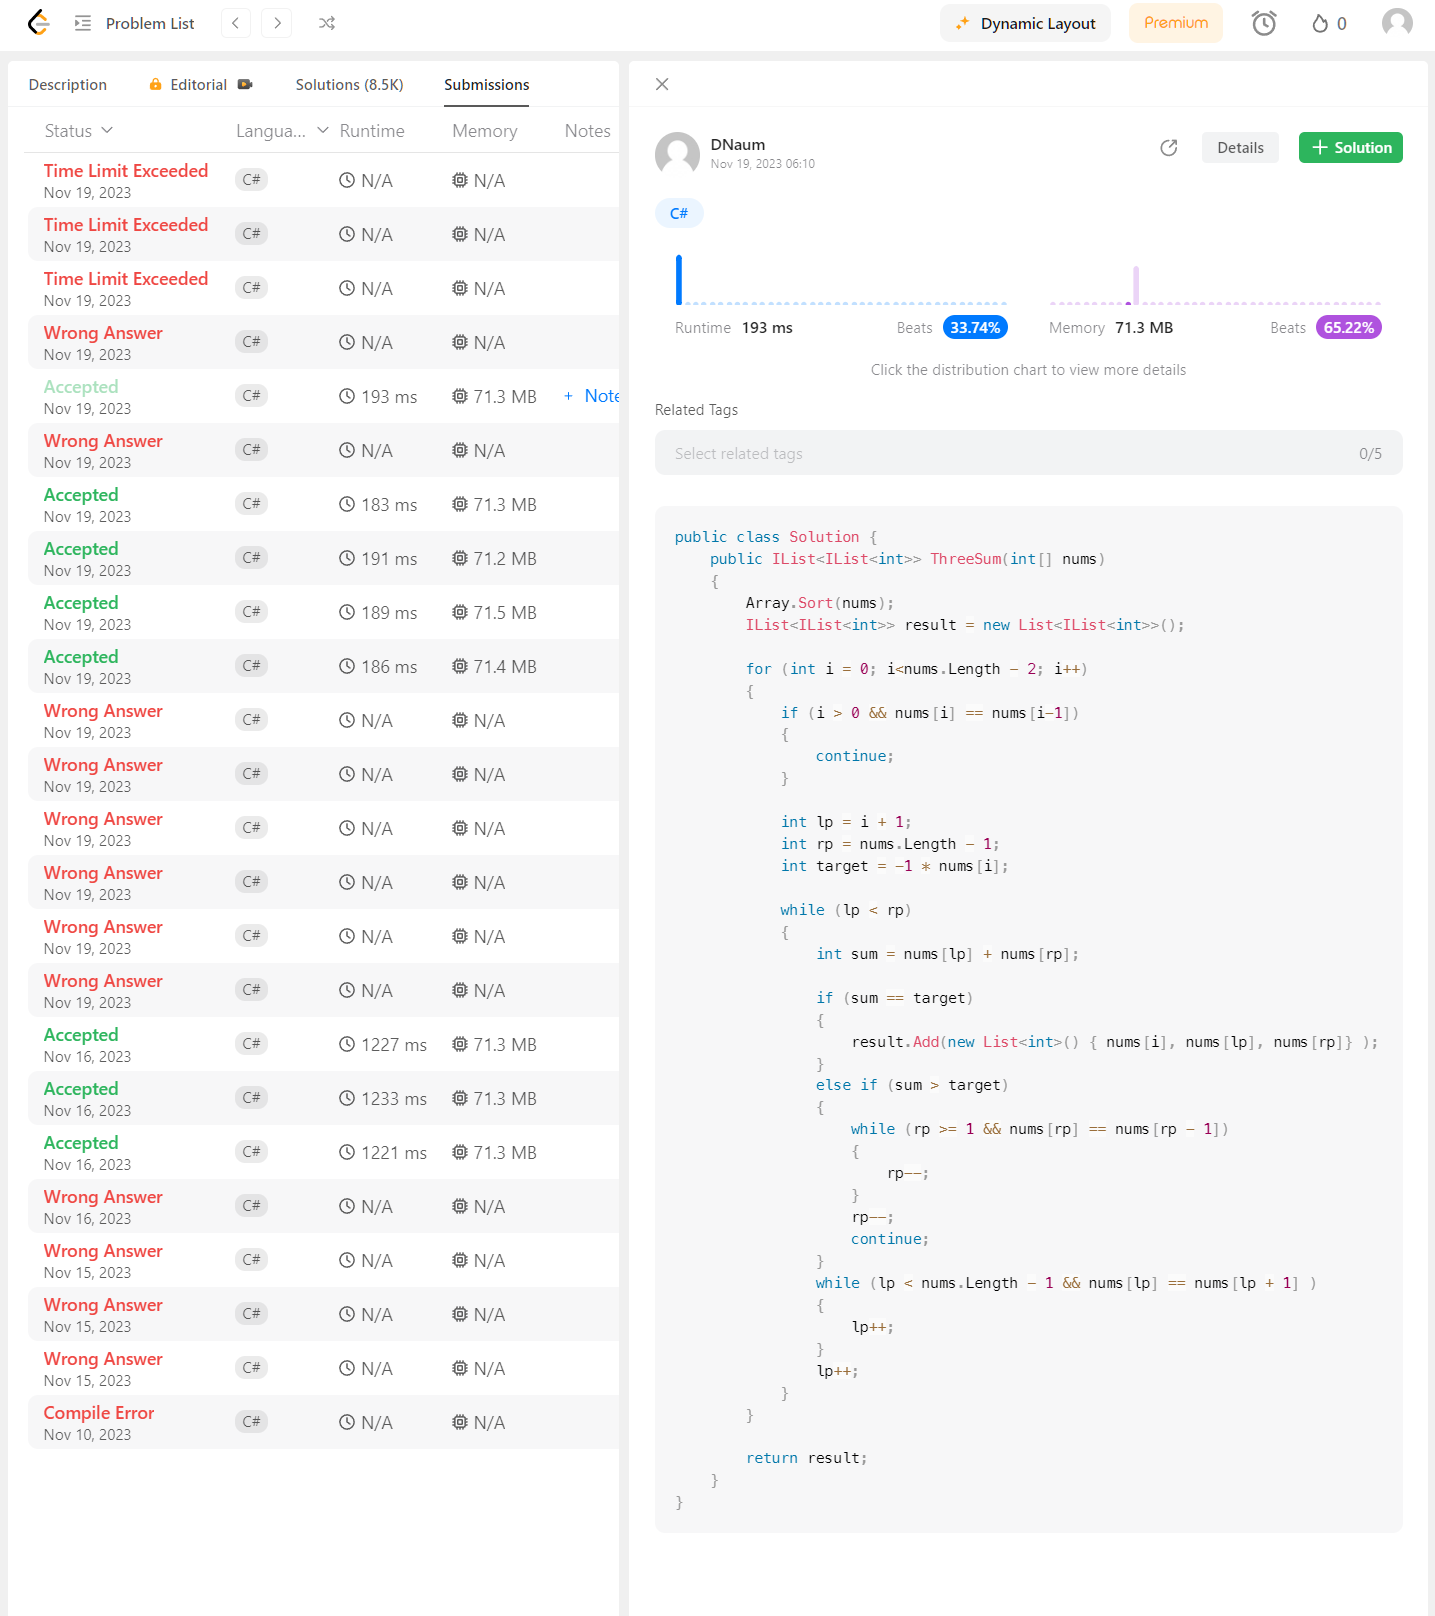
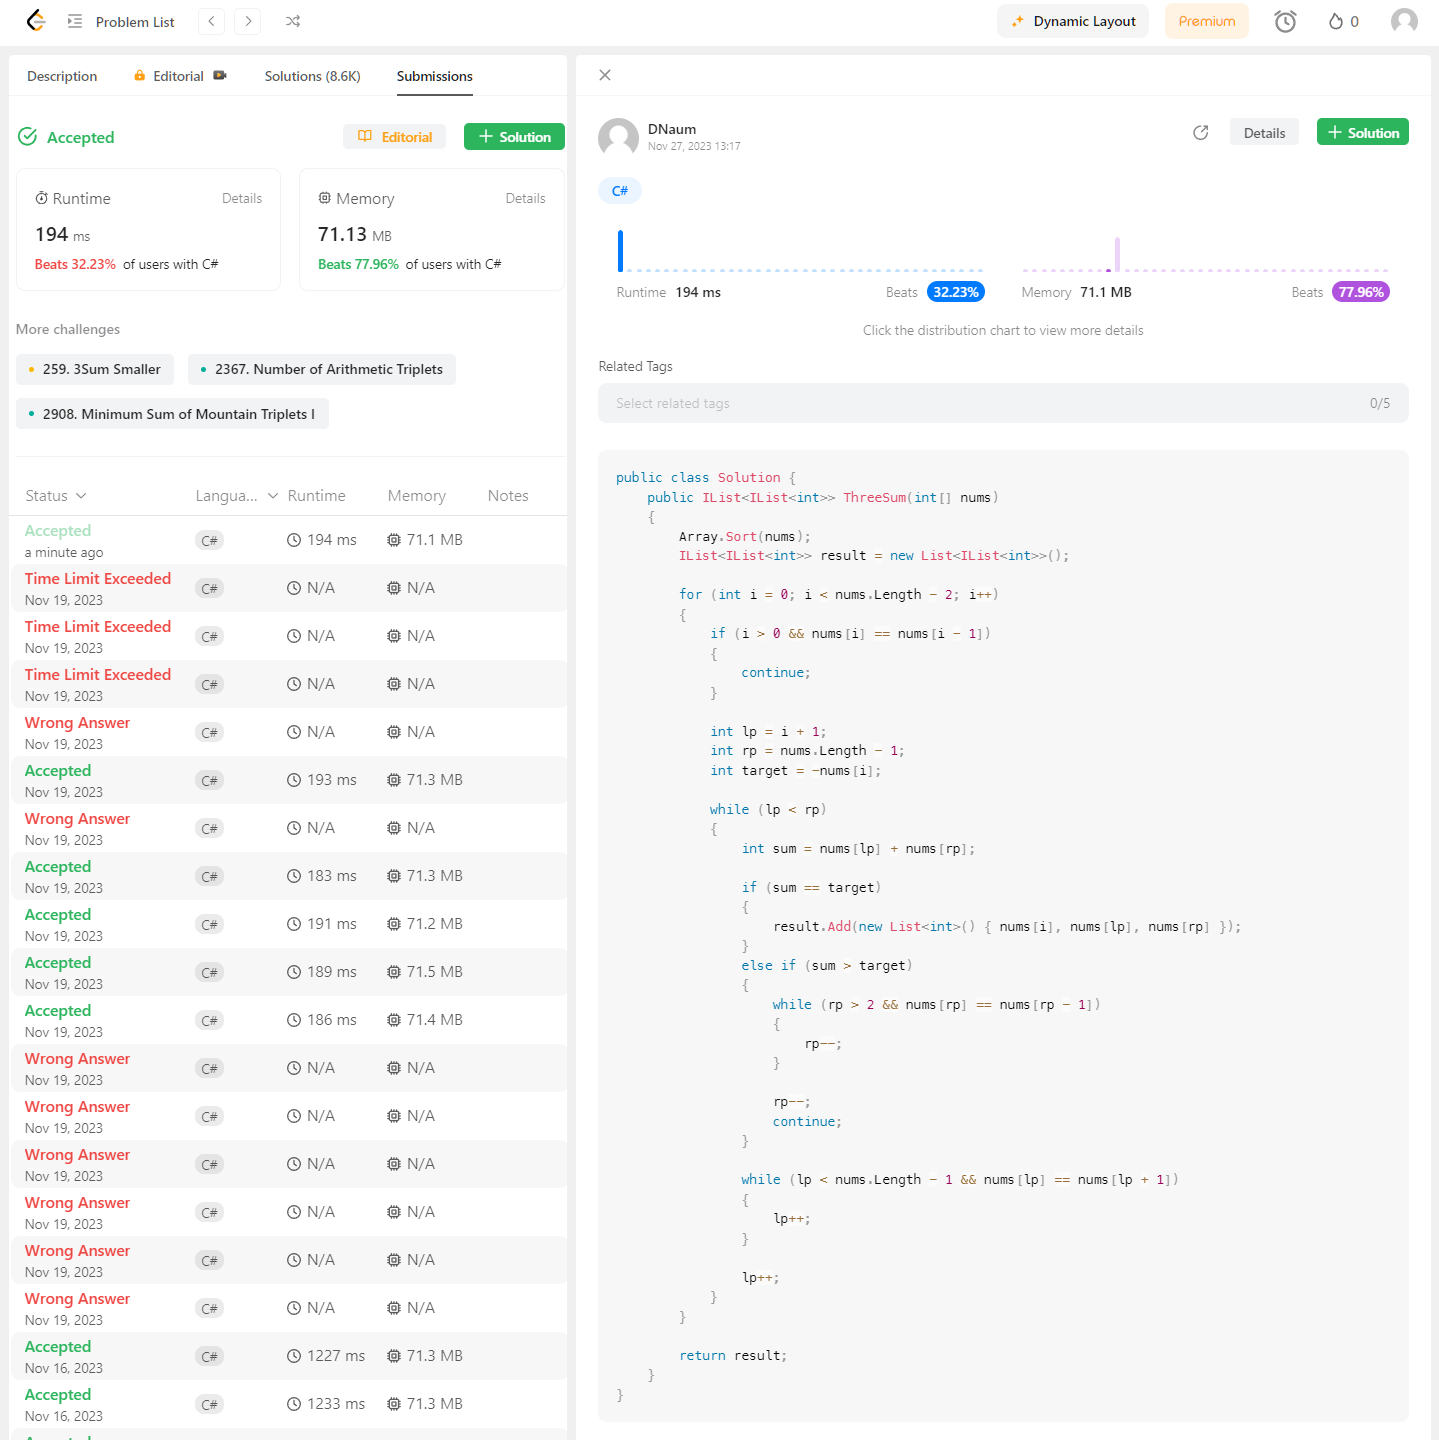
Minor formatting changes. LC result screenshot updated.

diff --git a/ScnSoft-Education/LeetCodeTraining/ThreeSum/ThreeSumSolution.cs b/ScnSoft-Education/LeetCodeTraining/ThreeSum/ThreeSumSolution.cs
@@ -17,7 +17,7 @@
 
                 int lp = i + 1;
                 int rp = nums.Length - 1;
-                int target = -1 * nums[i];
+                int target = -nums[i];
 
                 while (lp < rp)
                 {
@@ -29,17 +29,20 @@
                     }
                     else if (sum > target)
                     {
-                        while (rp >= 1 && nums[rp] == nums[rp - 1])
+                        while (rp > 2 && nums[rp] == nums[rp - 1])
                         {
                             rp--;
                         }
+
                         rp--;
                         continue;
                     }
+
                     while (lp < nums.Length - 1 && nums[lp] == nums[lp + 1])
                     {
                         lp++;
                     }
+
                     lp++;
                 }
             }
